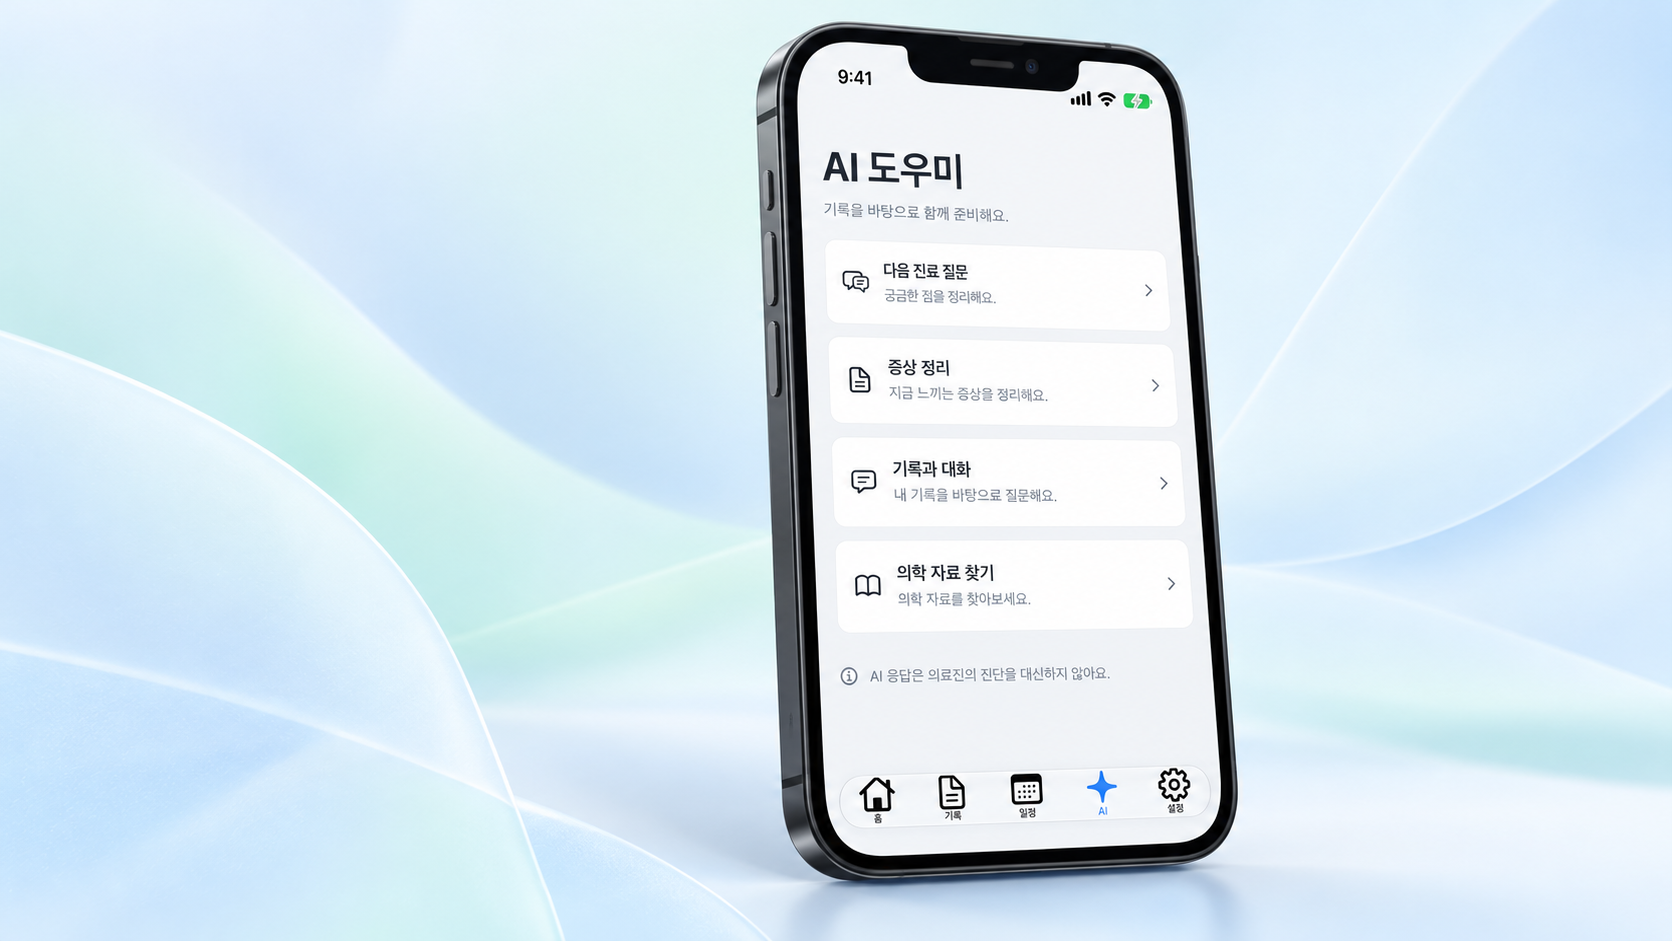
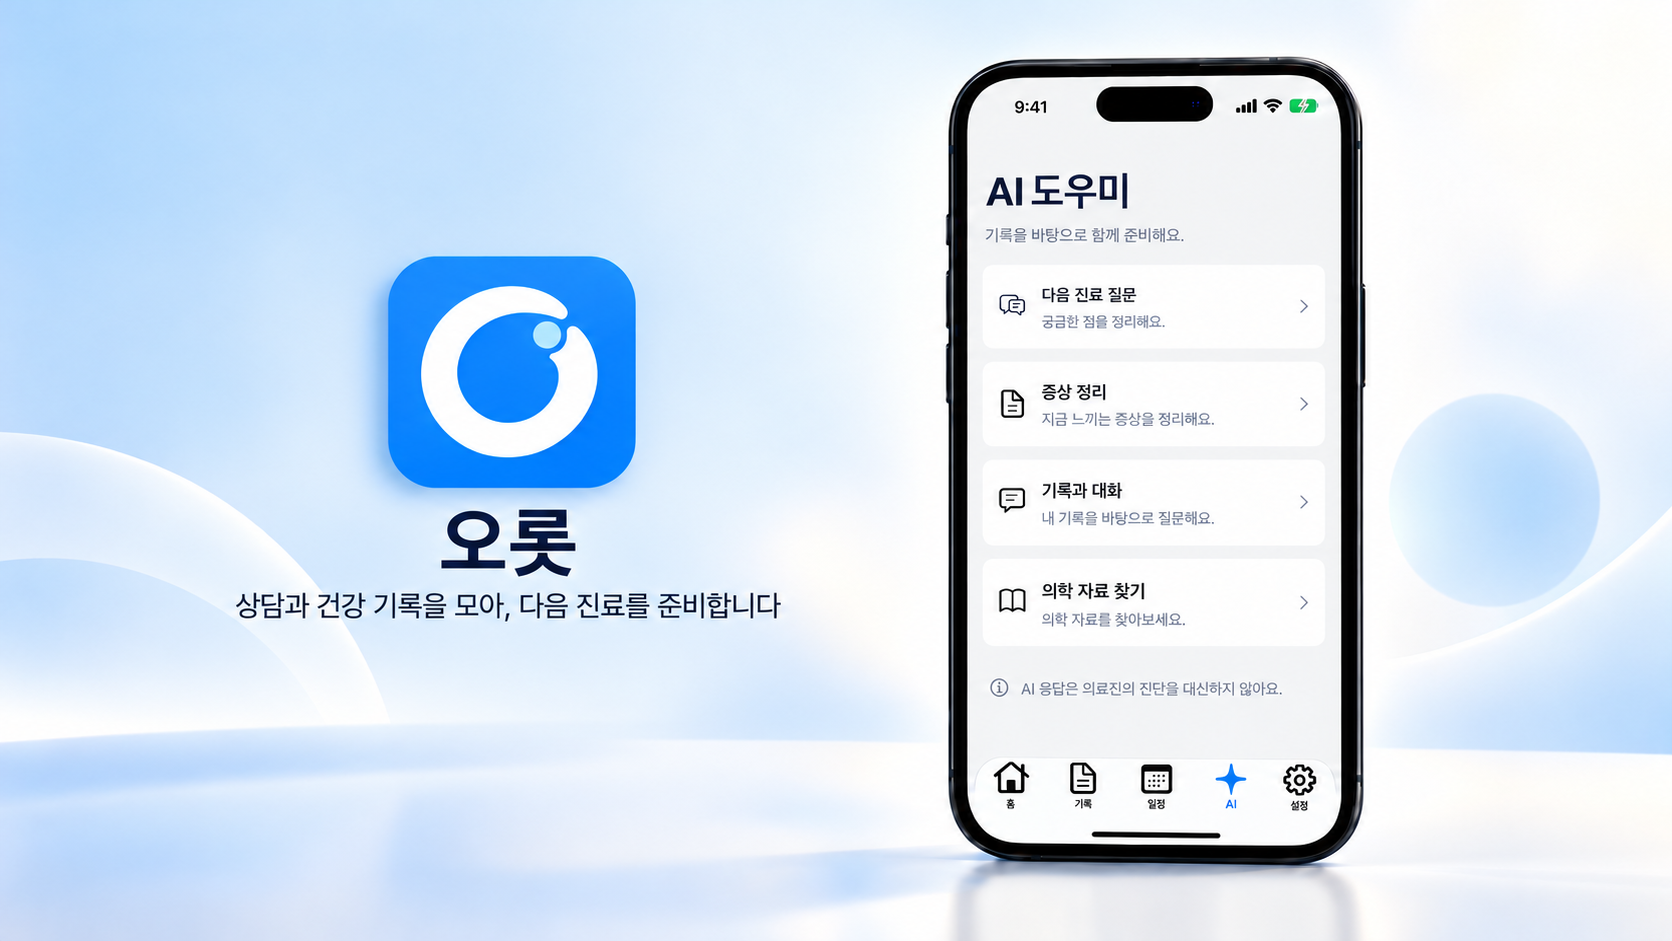
docs(readme): align features and architecture introduction

diff --git a/README.md b/README.md
@@ -1,57 +1,82 @@
 # 오롯: 기록을 모아, 다음 진료를 준비합니다
 
-![오롯의 AI 도우미](docs/assets/orot-hero.png)
+![오롯 앱 아이콘과 소개 문구, AI 도우미 화면](docs/assets/orot-hero.png)
 
-[![Code Quality](https://github.com/eunsoogi/orot/actions/workflows/code-quality.yml/badge.svg?branch=main)](https://github.com/eunsoogi/orot/actions/workflows/code-quality.yml) [![iOS 15.1+](https://img.shields.io/badge/iOS-15.1%2B-000000)](apps/mobile/ios/OrotMobile.xcodeproj/project.pbxproj) [![React Native 0.87.1](https://img.shields.io/badge/React%20Native-0.87.1-61DAFB)](apps/mobile/package.json) [![LangChain 1.2.14](https://img.shields.io/badge/LangChain-1.2.14-1C3C3C)](packages/agent-runtime/package.json) [![LangGraph 1.4.18](https://img.shields.io/badge/LangGraph-1.4.18-1C3C3C)](packages/agent-runtime/package.json)
+[![Code Quality](https://github.com/eunsoogi/orot/actions/workflows/code-quality.yml/badge.svg?branch=main)](https://github.com/eunsoogi/orot/actions/workflows/code-quality.yml) [![iOS 15.1+](https://img.shields.io/badge/iOS-15.1%2B-000000)](apps/mobile/ios/OrotMobile.xcodeproj/project.pbxproj) [![React Native 0.87.1](https://img.shields.io/badge/React%20Native-0.87.1-61DAFB)](apps/mobile/package.json) [![LangChain Core 1.2.14](https://img.shields.io/badge/LangChain%20Core-1.2.14-1C3C3C)](packages/agent-runtime/package.json) [![LangGraph 1.4.18](https://img.shields.io/badge/LangGraph-1.4.18-1C3C3C)](packages/agent-runtime/package.json)
 
-오롯은 상담 녹음, 건강 기록, 진료 일정을 아이폰에 모아 다음 진료를 준비하도록 돕는 개인 건강 기록 앱입니다. 기록의 출처와 시점을 확인하고 AI가 참고한 근거를 살펴볼 수 있습니다.
+오롯은 상담 녹음, 건강 기록, 진료 일정을 아이폰에 모아 다음 진료를 준비하도록 돕는 개인 건강 기록 앱입니다. AI가 기록을 바탕으로 질문과 설명을 정리하고, 답변에 참고한 근거와 출처를 확인할 수 있습니다.
 
 ## 주요 기능
 
 ### 상담 녹음과 전사
 
-참여자에게 안내하고 동의를 받은 뒤 상담을 녹음합니다. 전사는 사용자가 따로 요청하면 기기에서 처리합니다.
+참여자 안내와 동의, 마이크 권한을 확인한 뒤 상담을 녹음합니다. 음성은 보호된 파일로 저장하며, 사용자가 별도로 요청하면 Apple Speech가 기기 안에서 전사합니다.
 
-### 건강 기록과 진료 일정
+### 건강 기록 가져오기
 
-HealthKit에서 필요한 건강 관찰을 선택해 가져옵니다. 진료 일정은 직접 등록하거나 캘린더 후보를 확인한 뒤 저장할 수 있습니다.
+HealthKit에서 필요한 건강 관찰을 선택해 가져옵니다. 가져온 기록에는 출처와 시점이 연결되어 이후 진료 준비에서 원문을 확인할 수 있습니다.
 
-### AI로 진료 준비
+### 진료 일정 관리
 
-다음 진료 질문과 증상 정리, 기록 기반 대화를 이용하고 외부 의학 자료를 검색할 수 있습니다.
+EventKit 일정은 후보로 확인하고, 사용자가 선택해 확인한 일정만 저장합니다. 일정은 직접 등록할 수도 있으며, 진료 질문을 저장할 때 연결할 수 있습니다.
 
-### 근거와 질문 확인
+### 다음 진료 질문
 
-AI 응답에서 참고한 기록과 출처를 확인하고, 정리한 질문을 진료 일정에 연결합니다.
+현재 일정과 기록에서 관련 근거를 찾아 질문 후보를 만듭니다. 근거 원문을 확인하고 필요한 질문을 검토한 뒤 일정에 저장할 수 있습니다.
 
-## AI 아키텍처
+### 증상 정리
 
-기능별 서비스가 요청 범위와 현재 근거를 정하고, 공유 실행 구성요소가 허용된 도구와 선택된 모델을 연결합니다. 기록 기반 대화에서만 호출자가 준비한 기록 조각을 로컬 RAG로 검색하며, 모든 기록을 자동으로 모델에 전달하거나 색인하지 않습니다.
+건강 기록을 바탕으로 가능성을 살펴보고 이를 뒷받침하거나 반박하는 근거와 남은 불확실성을 함께 보여줍니다. 진료 때 의료진과 논의하기 위한 자료이며 진단이나 치료 결정을 대신하지 않습니다.
+
+### 기록과 대화
+
+질문에 맞는 기록을 검색해 답변하고, 참고한 기록의 출처로 이동할 수 있습니다. 전체 기록을 자동으로 검색하거나 모델에 보내지 않고, 각 기능이 준비한 근거만 사용합니다.
+
+### 의학 자료 찾기
+
+Europe PMC에서 의학 문헌을 검색하고 원문 링크와 출처 정보를 확인할 수 있습니다. 검색어를 외부로 보내기 전에 별도로 동의하며 개인 건강 기록은 검색어에 자동으로 포함하지 않습니다.
+
+## 기술 스택과 역할
+
+| 기술 | 오롯에서 맡는 역할 |
+| --- | --- |
+| React Native 0.87.1과 TypeScript 6.0.3 | iOS 앱 화면과 기능별 서비스 구현 |
+| LangChain Core 1.2.14 | 기능에서 허용한 기록, 검토된 기억, 외부 문헌을 다루는 도구 구성 |
+| LangGraph 1.4.18 | 모델 응답과 근거 조회 흐름을 구성하고 실행 예산과 인용을 검증 |
+| @orot/rag와 E5, FTS5 | 기기 안에서 벡터 검색과 키워드 검색을 결합해 출처가 연결된 기록을 찾음 |
+| SQLCipher | 로컬 기록과 검색 벡터를 암호화해 저장 |
+| iOS HealthKit, EventKit, Apple Speech | 건강 기록 선택, 일정 확인, 요청형 기기 내 전사 |
+| Apple Foundation Models와 ChatGPT | 기기 내 모델 또는 사용자가 선택한 원격 모델 제공 |
+
+## AI 구조
+
+각 기능은 현재 사용할 수 있는 근거를 준비한 뒤 필요한 AI 실행 흐름에 전달합니다. 로컬 RAG는 다음 진료 질문, 증상 정리, 기록과 대화에서 공통으로 쓰입니다. LangChain 도구는 기능이 허용한 기록과 검토된 기억을 읽고, LangGraph는 응답과 근거 조회 단계를 연결해 인용과 실행 범위를 확인합니다.
 
 ```mermaid
 flowchart LR
-  service["기능별 서비스"] --> workflow["LangGraph 실행 흐름"]
-  workflow --> tools["LangChain 도구"]
-  tools --> records["허용된 로컬 기록·검토된 기억"]
-  conversation["기록 기반 대화"] --> rag["기기 안의 RAG<br/>E5 · SQLCipher 벡터 · FTS5"]
-  rag -->|"출처가 연결된 근거 조각"| workflow
-  workflow --> providerGraph["LangGraph 모델 호출"]
-  providerGraph --> provider["LanguageModelProvider"]
-  provider -->|"기기 안에서 처리"| localModel["Apple Foundation Models"]
-  provider -->|"원격 요청이면 동의 확인"| consent["전송 내용·수신자 확인"]
-  consent --> remoteModel["선택된 원격 모델"]
-  workflow --> answer["근거와 출처가 연결된 결과"]
+  health["사용자가 선택한 건강 기록"] --> local["아이폰 안의 SQLCipher"]
+  calendar["사용자가 확인한 일정"] --> local
+  recording["보호된 녹음 파일"] --> speech["요청형 Apple Speech 전사"] --> local
+  local --> chunks["기능별 근거 선택"] --> rag["기기 내 RAG<br/>E5 벡터 검색, FTS5 키워드 검색"]
+  rag --> questions["다음 진료 질문"]
+  rag --> symptoms["증상 정리"]
+  rag --> conversation["기록과 대화"]
+  questions --> graph["LangGraph 실행 흐름"]
+  symptoms --> graph
+  conversation --> graph
+  graph --> tools["LangChain 도구"]
+  tools --> graph
+  graph --> localModel["Apple Foundation Models"]
+  graph --> consent["원격 전송 내용과 수신자 확인"] --> chatgpt["사용자가 선택한 ChatGPT 모델"]
+  search["사용자가 입력한 문헌 검색어"] --> queryConsent["검색어 전송 동의"] --> europePmc["Europe PMC"]
+  graph --> answer["근거와 출처가 연결된 응답"]
 ```
 
-- **LangChain**은 허용된 로컬 기록과 검토된 기억을 읽는 도구를 제공합니다.
-- **LangGraph**는 응답과 근거 조회 단계를 구성하고, 실행 예산·도구 범위·출처를 관리합니다.
-- **RAG**는 기기 안에서 E5 임베딩, SQLCipher 벡터 저장, FTS5 키워드 검색을 사용합니다. 호출자가 전달한 출처 연결 조각만 검색하고 모든 기록을 자동 색인하지 않습니다.
-- **React Native**는 TypeScript 기반 iOS 앱 화면과 동작을 구성합니다.
-- **SQLCipher**는 앱의 로컬 데이터베이스를 암호화합니다.
+RAG는 호출자가 준비한 출처 연결 근거만 검색합니다. E5 임베딩 순위와 FTS5의 BM25 키워드 순위를 결합하며, 전체 데이터베이스를 자동으로 색인하지 않습니다. 원격 모델 요청에는 전송할 내용과 수신자를 확인하는 별도 동의가 필요합니다. 의학 문헌 검색은 원격 모델 요청과 분리된 검색어 동의 경계를 사용합니다.
 
 ## 기록과 동의
 
-기록은 기기에 SQLCipher로 암호화해 저장하며 건강 기록을 보관하는 오롯 서버는 없습니다. 외부 모델 요청은 전송 내용과 수신자를 확인한 뒤 별도로 동의해야 합니다. 외부 문헌 검색도 검색어 전송에 대한 동의가 필요합니다. AI 응답은 의료진의 진단을 대신하지 않습니다.
+건강 기록은 아이폰 안의 SQLCipher 데이터베이스에 저장하며 오롯 자체 서버는 건강 기록을 보관하지 않습니다. 녹음 파일은 데이터베이스와 분리된 보호 파일로 저장합니다. AI 응답은 의료진의 진단을 대신하지 않습니다.
 
 ## 문서
 

diff --git a/docs/assets/screenshot-provenance.md b/docs/assets/screenshot-provenance.md
@@ -7,20 +7,26 @@
 - 앱 소스 기준 커밋: `6700d575be2e29e6ee41ca5fc8bbb82b1303cbeb`
 - 캡처 시각: 2026-10-11 08:39:07 UTC (17:39:07 KST)
 - 실행 환경: iPhone Air Simulator, iOS 27.0 (runtime build `24A434`), 기기 ID `28D89DC3-2A3D-43CD-A59B-955322F0F796`
-- 장면: 앱의 `AI 도우미` 목록. 다음 진료 질문, 증상 정리, 기록과 대화, 의학 자료 찾기 네 항목과 의료진 진단을 대체하지 않는다는 안내가 보입니다.
+- 장면: 앱의 `AI 도우미` 목록. 다음 진료 질문, 증상 정리, 기록과 대화, 의학 자료 찾기 네 항목과 의료진 진단을 대신하지 않는다는 안내가 보입니다.
 - 이 새 시뮬레이터에는 사용자 건강 기록이나 계정이 없습니다. 화면은 실제 앱을 Release 구성으로 실행해 캡처했으며, 이 캡처는 기능 목록 UI만 증명합니다.
 
 새 시뮬레이터에서도 홈 예약과 녹음 기록, 다음 진료 질문 화면의 예약 정보, 제공자 선택 상태를 불러오지 못했습니다. 그래서 해당 오류 화면은 소개 이미지에서 제외했고, 합성 예약이나 계정 정보를 실제 앱 데이터처럼 만들지 않았습니다.
 
+## 앱 아이콘 원본
+
+- 파일: [`../../apps/mobile/ios/OrotMobile/Images.xcassets/AppIcon.appiconset/AppIcon-1024.png`](../../apps/mobile/ios/OrotMobile/Images.xcassets/AppIcon.appiconset/AppIcon-1024.png)
[1 lines of base64/hex data omitted]
+
 ## 생성한 소개 이미지
 
 - 파일: [`orot-hero.png`](orot-hero.png)
[2 lines of base64/hex data omitted]
 - 크기: 1672 × 941 px
-- 생성 입력: 위의 실제 화면 원본. 화면을 식별할 수 있는 소개용 합성 이미지이며, 원본 앱 UI 자체를 픽셀 단위로 보존한 캡처는 아닙니다. 정확한 문구와 화면 상태는 원본 PNG를 기준으로 확인하세요.
[1 lines of base64/hex data omitted]
+- 소개 이미지는 실제 화면과 아이콘을 참고해 생성한 합성 이미지입니다. 화면의 실제 상태와 픽셀은 위 원본 PNG를 기준으로 확인하세요.
 
-### 생성 프롬프트
+### 최종 편집 프롬프트
 
 ```text
-Create a polished 16:9 landscape hero image for the open-source Korean health-record app Orot, using the provided image as the exact screen reference. Show one modern black iPhone in a three-quarter front view, large and crisp, with the provided AI Assistant screen on its display. Preserve the complete screen as faithfully as possible: Korean text, all four feature cards, icons, typography, active blue AI tab, and medical disclaimer must remain recognizable and unaltered. Do not invent or redraw any app UI, do not add text inside the phone, do not crop or replace screen content. Compose the phone slightly right of center on a quiet pale blue-gray background with soft mint and sky-blue gradients, subtle translucent paper-like curves, and gentle natural shadows. Keep the background minimal and premium, like an App Store editorial image. No people, no medical cross, no hospital imagery, no pills, no fake charts, no extra screens, no unsupported feature claims, no logos or text outside the phone. The real Orot screen is the only product evidence.
+Edit the first reference image to balance the composition. Do not place the brand block in the upper-left corner. Move the entire brand block (blue app icon, Korean name, and description together) downward and inward so it is centered within the open left half and visually balances the phone on the right. Center the brand block around the middle height of the canvas, with comfortable margins above and below; place the icon above the name “오롯” and the exact one-line description “상담과 건강 기록을 모아, 다음 진료를 준비합니다” directly below the name. Align all three elements around the center of the left half. Keep the tagline on one horizontal line. Keep the blue rounded-square app icon directly on the pale blue background with a soft shadow, no white card behind it. Do not write the Latin word Orot anywhere. Keep the iPhone on the right and preserve the actual AI feature screen from reference three as closely as possible, without changing, inventing, or replacing screen text, feature cards, icons, disclaimer, or navigation. Keep the real app icon recognizable from reference two. Add no other text, badges, symbols, cards, or logos. Preserve the wide 1672-by-941 landscape composition and calm blue-white lighting.
 ```
